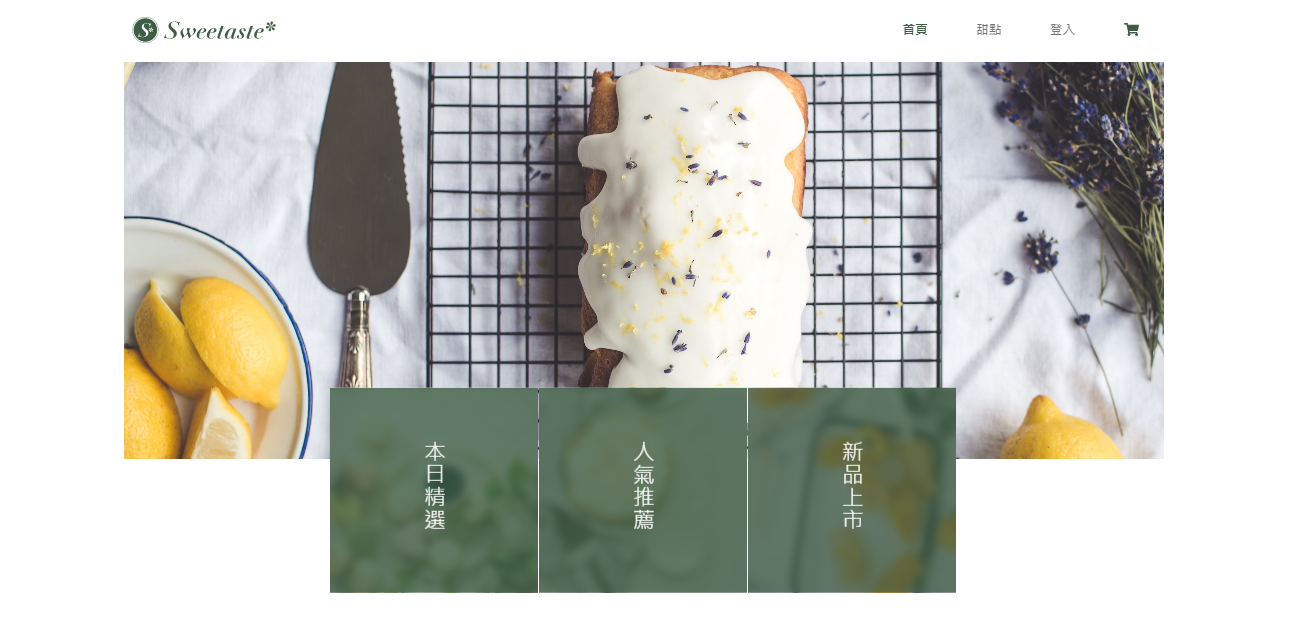
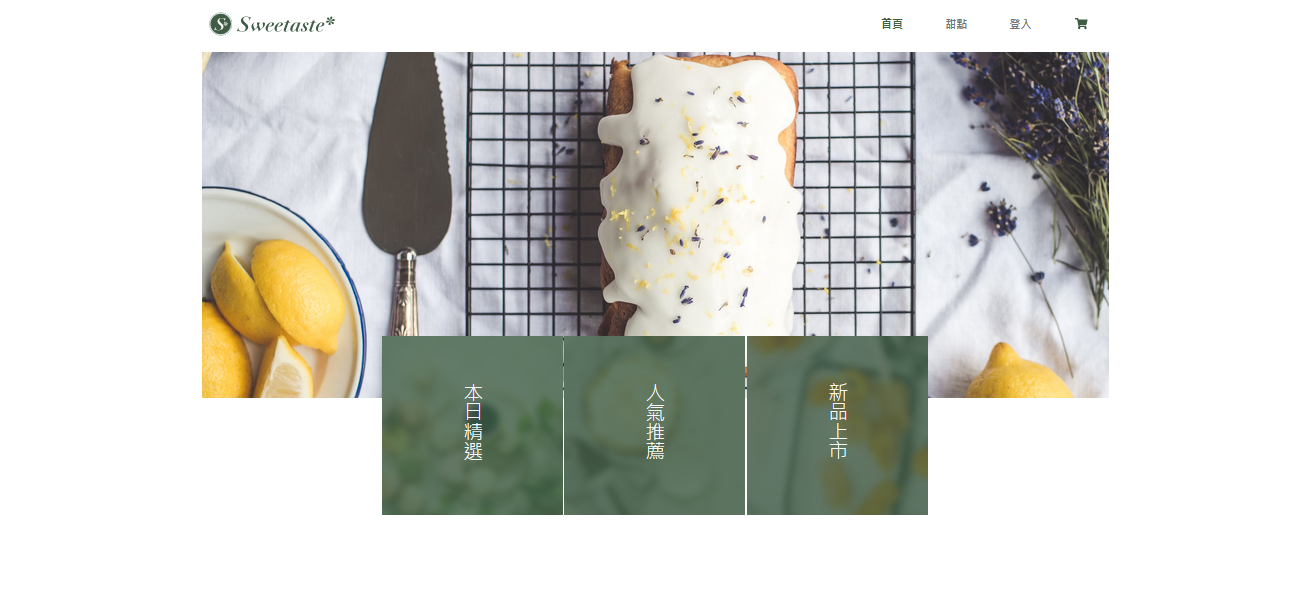
123

diff --git a/index.html b/index.html
@@ -258,11 +258,11 @@
             </div>
 
             <div class="project_box">
-              <h3 >react購物車功能製作</h3>
-              <div class="project" style="background-image: url(./asset/project/sweetshop.png);">
+              <h3 >React購物車元件製作</h3>
+              <div class="project" style="background-image: url(./asset/project/react-shop-cart.png);">
                 <div class="content">
 
-                  <p>純html,css,js的切版練習網頁，有完整的店商介面樣式</p>
+                  <p>運用React框架製作商城購物車功能元件，並架設簡單UI的網站</p>
                   <button class="btn btn-secondary btn-sm">
                     <a href="https://ian94305.github.io/react-shop.github.io/" class="button">demo</a>
                   </button>&nbsp&nbsp
@@ -328,9 +328,9 @@
 
     <section class="connectme" id="connectme"> 
       <div class="left center">
-        <h2></h2>
+        <h2>聯絡我</h2>
         <p></p>
-        <div></div>
+  
 
       </div>
       <div class="right center column">

diff --git a/src/projects.css b/src/projects.css
@@ -103,15 +103,13 @@
     color: inherit;
     font: inherit;
 
-    /* Normalize `line-height`. Cannot be changed from `normal` in Firefox 4+. */
     line-height: normal;
 
-    /* Corrects font smoothing for webkit */
     -webkit-font-smoothing: inherit;
     -moz-osx-font-smoothing: inherit;
 
-    /* Corrects inability to style clickable `input` types in iOS */
-    -webkit-appearance: none;
+
+
 }
 
 .projects {
@@ -161,10 +159,11 @@
     height: 288px;
     }
     
-    .project .content h3 {
-    font-size: 32px;
+    .projects h3 {
+    font-size: 1.5rem;
     margin-bottom: 16px;
-    color: #FFF;white-space: nowrap;
+    color: #FFF;
+    white-space: nowrap;
     }
     
     @media (max-width: 1024px) {

diff --git a/src/style.css b/src/style.css
@@ -83,7 +83,7 @@
     background-position: center;
     background-size: cover;
     overflow-x: hidden;
-    min-width: 400px!important;
+    min-width: 350px!important;
   }
 .none{
   display: none;
@@ -112,7 +112,7 @@ section{
     align-items: center;
     margin: 0!important;
     min-height: 100vh;
-    min-width: 400px!important;
+    min-width: 350px!important;
 }
 
 

diff --git a/src/connectme.css b/src/connectme.css
@@ -25,7 +25,7 @@
 .left{
     height: 100%;
     width: 50%;
-    background-color: aliceblue;
+
 }
 .right{
 padding: 10px 0;
